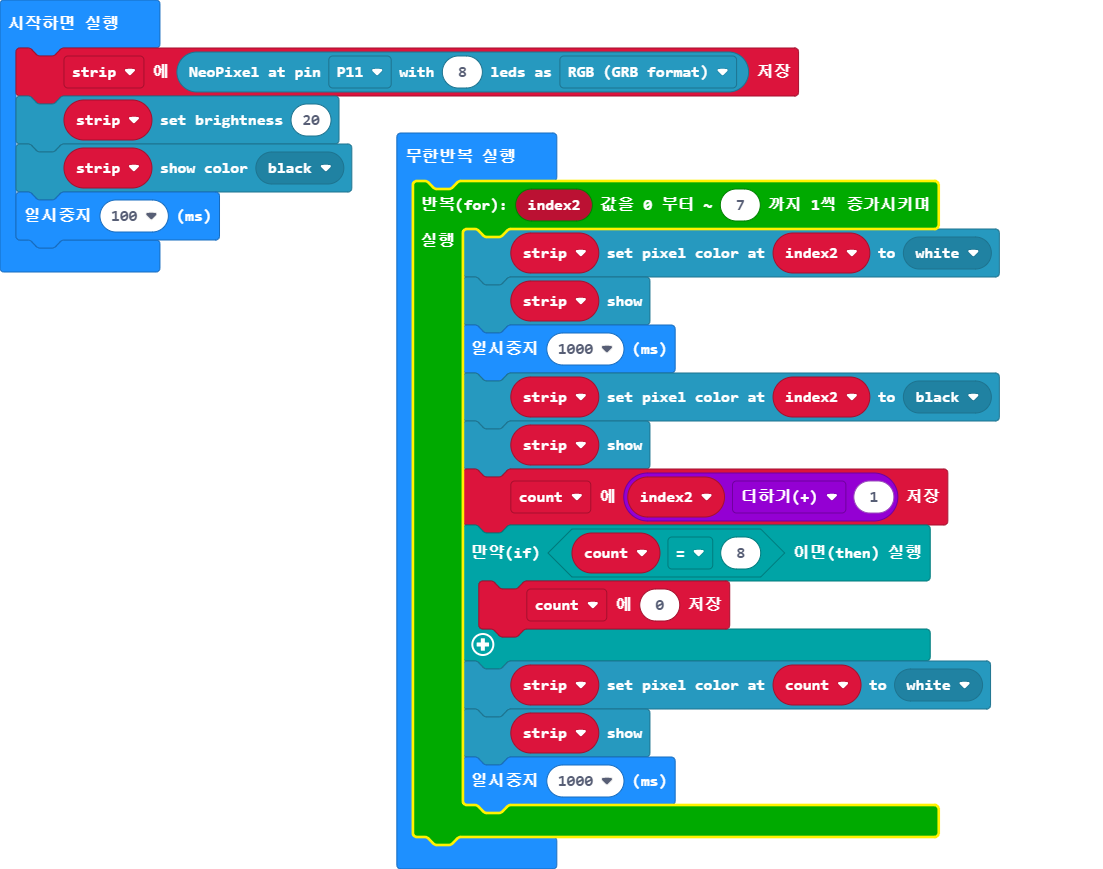
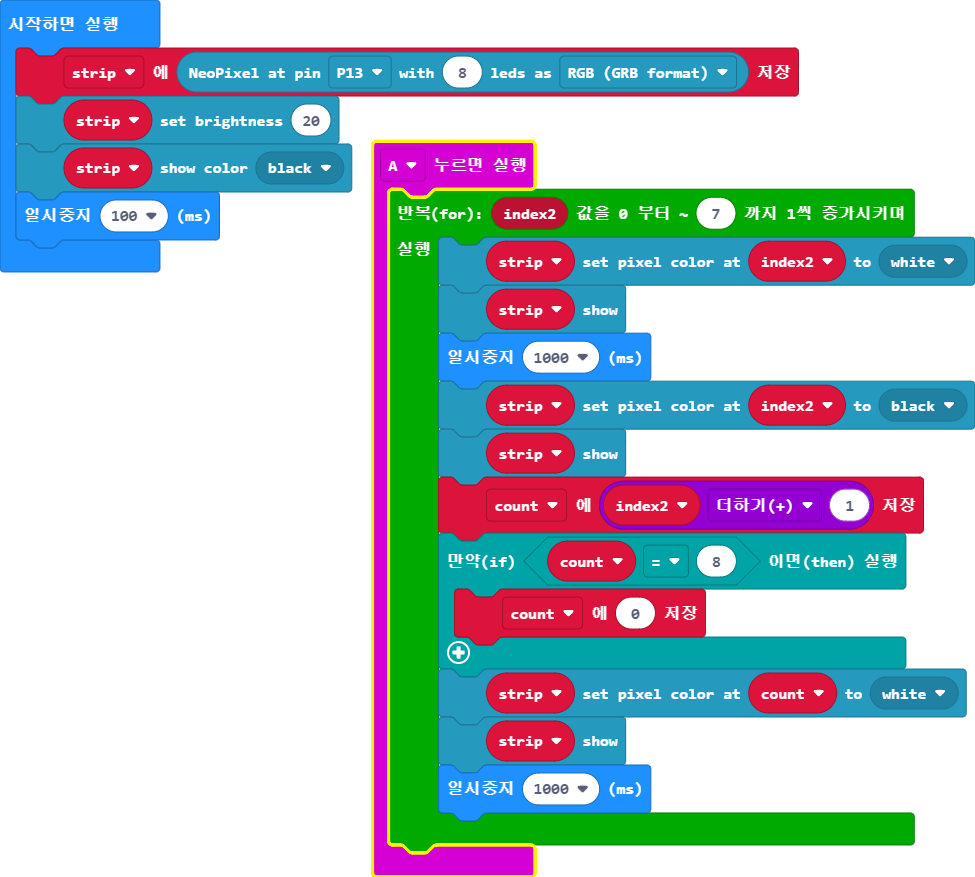
pxt.json, main.blocks, main.ts 업데이트하기

diff --git a/main.ts b/main.ts
@@ -1,9 +1,4 @@
-let count = 0
-let strip = neopixel.create(DigitalPin.P11, 8, NeoPixelMode.RGB)
-strip.setBrightness(20)
-strip.showColor(neopixel.colors(NeoPixelColors.Black))
-basic.pause(100)
-basic.forever(function () {
+input.onButtonPressed(Button.A, function () {
     for (let index2 = 0; index2 <= 7; index2++) {
         strip.setPixelColor(index2, neopixel.colors(NeoPixelColors.White))
         strip.show()
@@ -19,3 +14,9 @@ basic.forever(function () {
         basic.pause(1000)
     }
 })
+let count = 0
+let strip: neopixel.Strip = null
+strip = neopixel.create(DigitalPin.P13, 8, NeoPixelMode.RGB)
+strip.setBrightness(20)
+strip.showColor(neopixel.colors(NeoPixelColors.Black))
+basic.pause(100)
